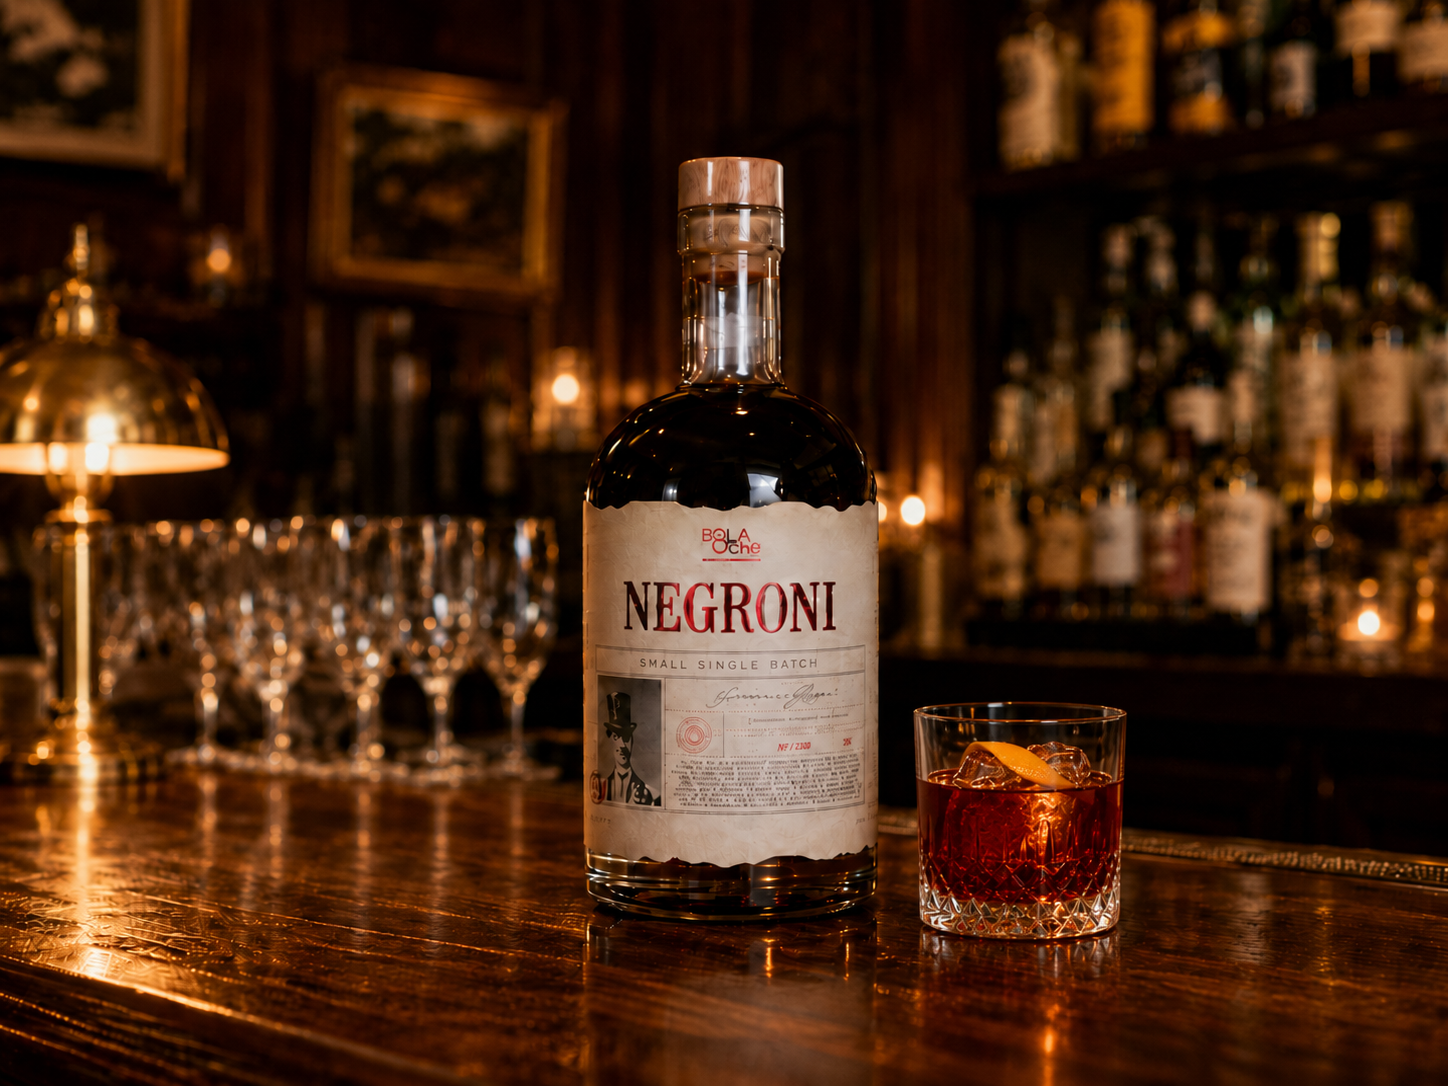
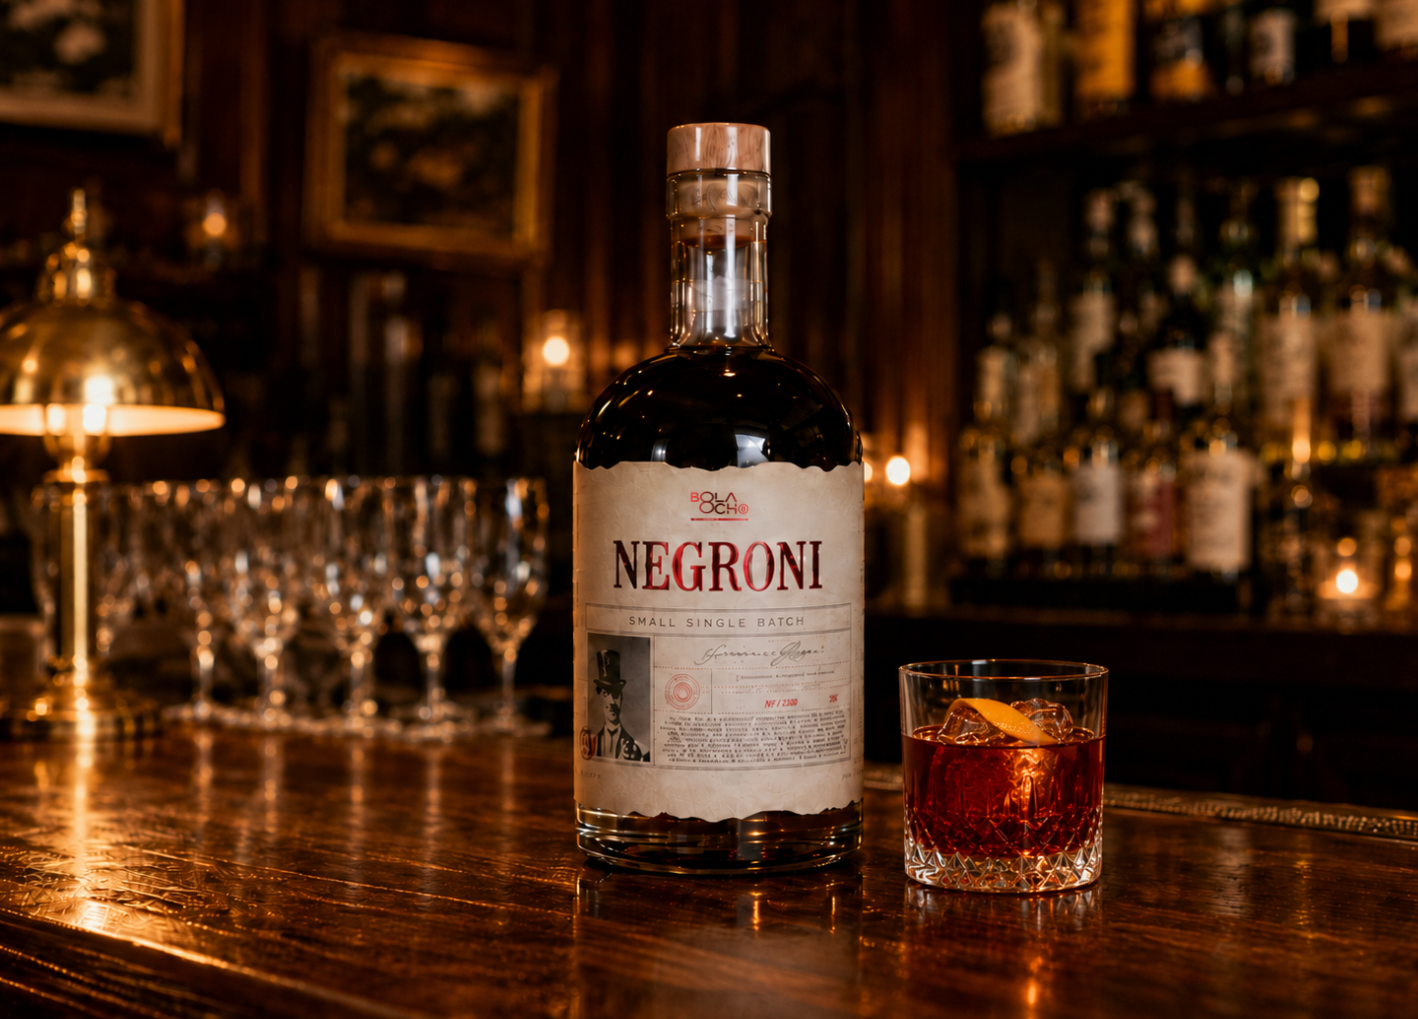
Arreglo de formulario

diff --git a/catalogo/producto/producto.css b/catalogo/producto/producto.css
@@ -34,9 +34,13 @@
 }
 
 .detail-photo {
+    position: absolute;
+    inset: 0;
+    display: block;
     width: 100%;
     height: 100%;
     object-fit: cover;
+    object-position: center center;
     mix-blend-mode: multiply;
     filter: saturate(.75)
 }
@@ -173,7 +177,7 @@
 
 
 
-.detail-photo{object-fit:contain;object-position:center}
+.detail-photo{object-fit:cover;object-position:center center}
 
 .product-detail{align-items:stretch}.detail-visual{height:auto;align-self:stretch;background:var(--color-surface-alt)}.detail-photo{mix-blend-mode:normal;filter:none}
 
@@ -188,7 +192,7 @@
     .breadcrumbs{height:20px;margin-bottom:8px}
     .product-detail{height:auto;min-height:0;overflow:visible;align-items:start}
     .detail-visual{height:510px;min-height:0;align-self:start}
-    .detail-photo{width:100%;height:100%;object-fit:contain;object-position:center}
+    .detail-photo{width:100%;height:100%;object-fit:cover;object-position:center center}
     .detail-copy{height:auto;min-height:0;padding:clamp(22px,3vw,42px);overflow:visible}
     .detail-copy h1{font-size:clamp(2.35rem,3.8vw,4.15rem);margin:10px 0}
     .lead{margin:5px 0;line-height:1.5}
